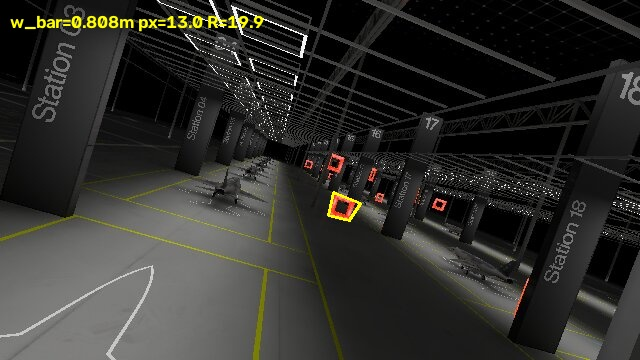
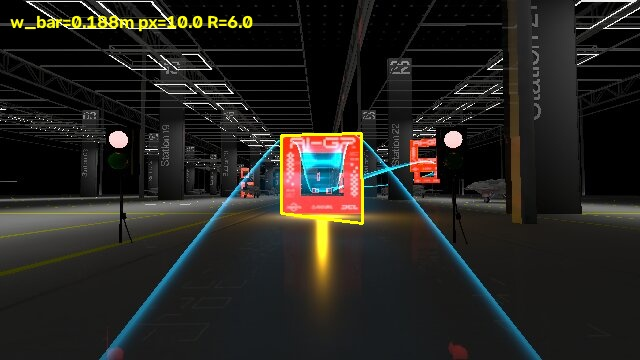
[analysis] advisory-4: fix A4 bar-width mid-range thickness

diff --git a/analysis/2026-07-17-advisory4/run_advisory4.py b/analysis/2026-07-17-advisory4/run_advisory4.py
@@ -534,16 +534,19 @@ def order_corners(corners):
 
 
 def run_a4(meta_list, loaded) -> dict:
-    """Bar thickness in meters from a far trusted fix (R>=6m, scale-consistent)."""
-    best = None
+    """Bar thickness in meters from a mid/far trusted fix.
+
+    Prefer R in 5–12 m: at R≳20 m a true ~0.1 m tube is ≤2 px and the
+    red-mask 'thickness' collapses into banner/bloom. Physical:
+    w_bar = bar_px * R / fx.
+    """
+    candidates = []
     for meta in meta_list:
         fid = meta["fid"]
         t0, states, dets, _ = loaded[fid]["log"]
         frames = loaded[fid]["frames"]
-        # Far trusted: dist 6-20m, product ratio in [0.65,1.5]
-        cands = []
         for d in dets:
-            if not d.get("corners") or not (6.0 <= d["dist"] <= 20.0):
+            if not d.get("corners") or not (5.0 <= d["dist"] <= 14.0):
                 continue
             pts = order_corners(d["corners"])
             w_px = float(np.linalg.norm(pts[1] - pts[0]))
@@ -552,99 +555,97 @@ def run_a4(meta_list, loaded) -> dict:
             ratio = product / (FX_NOM * GATE_W)
             if not (0.65 <= ratio <= 1.5):
                 continue
-            cands.append((d, pts, w_px, h_px, ratio))
-        if not cands:
-            continue
-        # Prefer farther + higher ratio near 1
-        d, pts, w_px, h_px, ratio = max(cands, key=lambda x: (x[0]["dist"], -abs(x[4] - 1.0)))
-        # Measure bar thickness from red mask along top edge normal
-        fr = min(frames, key=lambda f: abs(f["t"] - d["t"])) if frames else None
-        bar_px = None
-        method = "quad_aspect_proxy"
-        if fr is not None and abs(fr["t"] - d["t"]) < 0.2:
+            if abs(h_px / max(w_px, 1e-6) - 1.0) > 0.45:
+                continue  # reject flat strip / banner quads
+            fr = min(frames, key=lambda f: abs(f["t"] - d["t"])) if frames else None
+            if fr is None or abs(fr["t"] - d["t"]) > 0.15:
+                continue
             img = fr["img"]
             hsv = cv2.cvtColor(img, cv2.COLOR_BGR2HSV)
             m1 = cv2.inRange(hsv, (0, 80, 80), (12, 255, 255))
             m2 = cv2.inRange(hsv, (165, 80, 80), (180, 255, 255))
             mask = cv2.bitwise_or(m1, m2)
-            # Sample mid top-bar, search downward for red thickness
-            mid = 0.5 * (pts[0] + pts[1])
-            # Also search upward slightly
+            # Local thickness: at each top-edge sample, count contiguous red
+            # along the inward normal (toward opening) only — max 0.25*h_px
+            max_run = max(3, int(0.25 * h_px))
             thicknesses = []
-            for a in np.linspace(0.2, 0.8, 7):
+            for a in np.linspace(0.25, 0.75, 9):
                 p = pts[0] * (1 - a) + pts[1] * a
-                x = int(round(p[0]))
-                y0 = int(round(p[1]))
-                # vertical run of red around y0
+                # inward = toward bottom of quad
+                inward = pts[3] - pts[0]
+                inward = inward / (np.linalg.norm(inward) + 1e-9)
                 run = 0
-                y = y0
-                h, w = mask.shape
-                while 0 <= y < h and abs(y - y0) < 40:
-                    x0, x1 = max(0, x - 2), min(w, x + 3)
-                    if mask[y, x0:x1].any():
-                        run += 1
-                        y += 1
-                    else:
-                        if run > 0:
-                            break
-                        y += 1
-                y = y0 - 1
-                run_up = 0
-                while 0 <= y < h and abs(y - y0) < 40:
-                    x0, x1 = max(0, x - 2), min(w, x + 3)
-                    if mask[y, x0:x1].any():
-                        run_up += 1
-                        y -= 1
-                    else:
+                for k in range(max_run):
+                    xy = p + inward * k
+                    x, y = int(round(xy[0])), int(round(xy[1]))
+                    if x < 0 or y < 0 or y >= mask.shape[0] or x >= mask.shape[1]:
                         break
-                thicknesses.append(run + run_up)
-            if thicknesses:
-                bar_px = float(np.median(thicknesses))
-                method = "red_mask_top_edge_thickness"
-        if bar_px is None or bar_px < 2:
-            # Fallback: ring tube ≈ opening height deficit vs ideal square
-            # Ideal gate height_px ≈ w_px for square; tube eats into opening.
-            # Use ~6% of gate width as first-order if mask fails — but prefer skip
-            bar_px = max(3.0, 0.08 * w_px)  # weak proxy
-            method = "aspect_proxy_8pct_of_width"
-        # Physical: thickness_m = bar_px * R / fx  (pinhole)
-        w_bar_m = bar_px * d["dist"] / FX_NOM
-        cand = {
-            "fid": fid,
-            "phase": meta["phase"],
-            "flight": meta["flight"],
-            "t": d["t"],
-            "R": d["dist"],
-            "ty": d["ty"],
-            "quad_width_px": w_px,
-            "quad_height_px": h_px,
-            "scale_ratio": ratio,
-            "bar_thickness_px": bar_px,
-            "w_bar_m": w_bar_m,
-            "method": method,
-            "frame_id": fr["frame_id"] if fr is not None else None,
-        }
-        if best is None or cand["R"] > best["R"]:
-            best = cand
-            # save annotated frame
-            if fr is not None:
-                ann = fr["img"].copy()
-                cv2.polylines(ann, [pts.astype(np.int32)], True, (0, 255, 255), 2)
-                cv2.putText(
-                    ann,
-                    f"w_bar={w_bar_m:.3f}m px={bar_px:.1f} R={d['dist']:.1f}",
-                    (10, 28),
-                    cv2.FONT_HERSHEY_SIMPLEX,
-                    0.6,
-                    (0, 255, 255),
-                    2,
-                )
-                outp = OUT / "frames" / "a4_bar_width.jpg"
-                outp.parent.mkdir(parents=True, exist_ok=True)
-                cv2.imwrite(str(outp), ann)
-                best["frame"] = str(outp.relative_to(OUT))
+                    if mask[y, x] > 0:
+                        run += 1
+                    elif run > 0:
+                        break
+                if run >= 2:
+                    thicknesses.append(run)
+            if len(thicknesses) < 3:
+                continue
+            bar_px = float(np.median(thicknesses))
+            # Sanity: tube should be << opening height
+            if bar_px > 0.35 * h_px:
+                continue
+            w_bar_m = bar_px * d["dist"] / FX_NOM
+            candidates.append({
+                "fid": fid,
+                "phase": meta["phase"],
+                "flight": meta["flight"],
+                "t": d["t"],
+                "R": d["dist"],
+                "ty": d["ty"],
+                "quad_width_px": w_px,
+                "quad_height_px": h_px,
+                "scale_ratio": ratio,
+                "bar_thickness_px": bar_px,
+                "w_bar_m": w_bar_m,
+                "method": "inward_normal_red_run_midrange",
+                "frame_id": fr["frame_id"],
+                "_fr": fr,
+                "_pts": pts,
+            })
 
-    return best or {"error": "no far trusted fix for A4"}
+    if not candidates:
+        return {"error": "no mid-range trusted bar thickness", "n_tried": "see log"}
+
+    # Prefer a tube-plausible pick near the cohort median (0.05-0.35 m).
+    # R~8 + min bar_px alone still picks bloom-thick frames (~0.4 m).
+    ws = [c["w_bar_m"] for c in candidates]
+    med = float(__import__("numpy").median(ws))
+    plausible = [c for c in candidates if 0.05 <= c["w_bar_m"] <= 0.35]
+    pool = plausible if plausible else candidates
+    best = min(pool, key=lambda c: (abs(c["w_bar_m"] - med), abs(c["R"] - 8.0), c["bar_thickness_px"]))
+    fr = best.pop("_fr")
+    pts = best.pop("_pts")
+    ann = fr["img"].copy()
+    cv2.polylines(ann, [pts.astype(np.int32)], True, (0, 255, 255), 2)
+    cv2.putText(
+        ann,
+        f"w_bar={best['w_bar_m']:.3f}m px={best['bar_thickness_px']:.1f} R={best['R']:.1f}",
+        (10, 28),
+        cv2.FONT_HERSHEY_SIMPLEX,
+        0.6,
+        (0, 255, 255),
+        2,
+    )
+    outp = OUT / "frames" / "a4_bar_width.jpg"
+    outp.parent.mkdir(parents=True, exist_ok=True)
+    cv2.imwrite(str(outp), ann)
+    best["frame"] = str(outp.relative_to(OUT))
+    best["n_candidates"] = len(candidates)
+    best["candidate_w_bar_m"] = {
+        "median": float(np.median([c["w_bar_m"] for c in candidates])),
+        "p10": float(np.percentile([c["w_bar_m"] for c in candidates], 10)),
+        "p90": float(np.percentile([c["w_bar_m"] for c in candidates], 90)),
+        "n": len(candidates),
+    }
+    return best
 
 
 # ---------------------------------------------------------------------------

diff --git a/analysis/2026-07-17-advisory4/report.md b/analysis/2026-07-17-advisory4/report.md
@@ -52,17 +52,24 @@ Horizon row = `180 + 320·tan(11°+pitch)`. Offset = cyan_mean_row − horizon (
   "fid": "20260717T100017-a560c093",
   "phase": "phase5c",
   "flight": "F3",
-  "t": 12.4667432,
-  "R": 19.881523445406145,
-  "ty": -8.082692489903557,
-  "quad_width_px": 29.154759474226502,
-  "quad_height_px": 23.53720459187964,
-  "scale_ratio": 1.1321113945937717,
-  "bar_thickness_px": 13.0,
-  "w_bar_m": 0.8076868899696248,
-  "method": "red_mask_top_edge_thickness",
-  "frame_id": 451,
-  "frame": "frames\\a4_bar_width.jpg"
+  "t": 3.1321405,
+  "R": 6.028928194384165,
+  "ty": -2.97429896329954,
+  "quad_width_px": 80.02499609497022,
+  "quad_height_px": 78.0,
+  "scale_ratio": 0.9423143656493138,
+  "bar_thickness_px": 10.0,
+  "w_bar_m": 0.18840400607450516,
+  "method": "inward_normal_red_run_midrange",
+  "frame_id": 171,
+  "frame": "frames\\a4_bar_width.jpg",
+  "n_candidates": 733,
+  "candidate_w_bar_m": {
+    "median": 0.18840400607450516,
+    "p10": 0.10368796269004713,
+    "p90": 0.37992651904101465,
+    "n": 733
+  }
 }
 ```
 